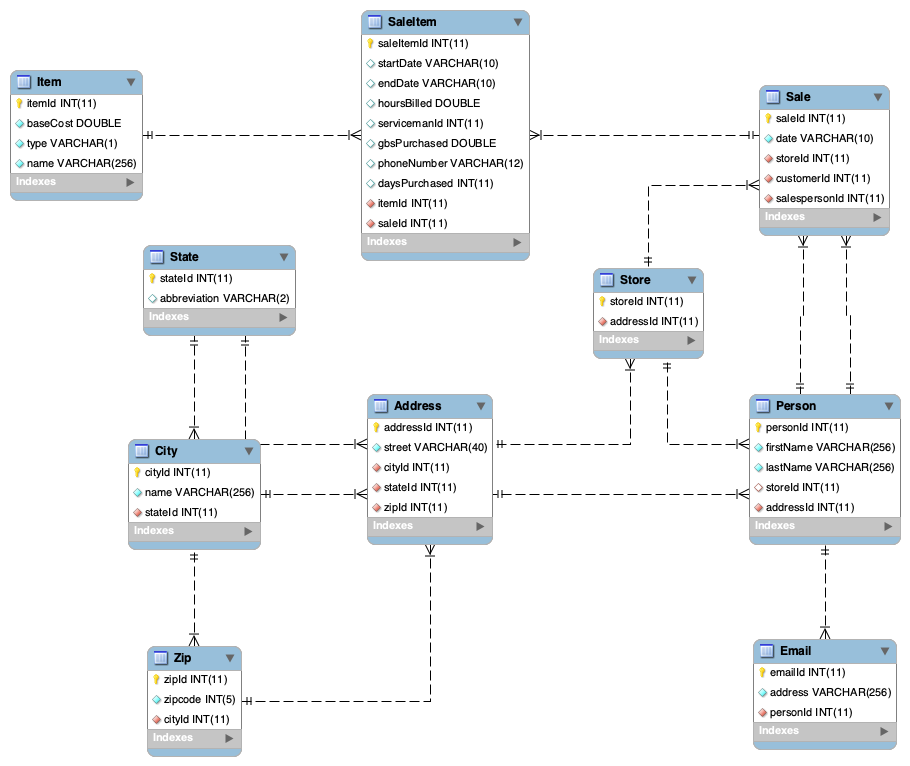
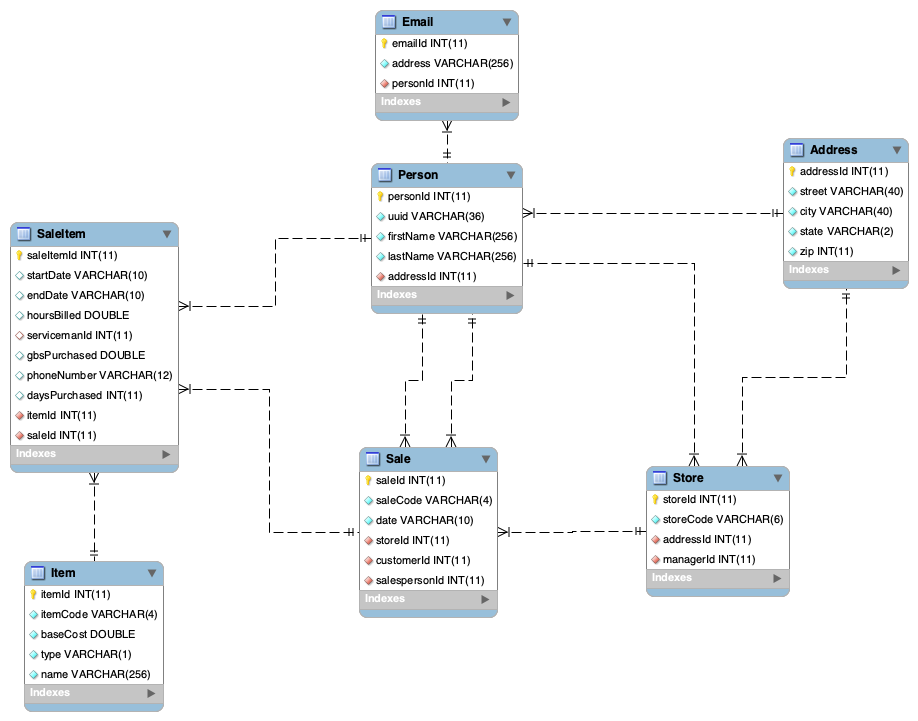
Edits

diff --git a/AssignmentTwo/src/com/yrl/SalesData.java b/AssignmentTwo/src/com/yrl/SalesData.java
@@ -5,8 +5,6 @@ import java.sql.PreparedStatement;
 import java.sql.ResultSet;
 import java.sql.SQLException;
 import java.sql.Statement;
-import java.util.Arrays;
-import java.util.List;
 
 /**
  * This is a collection of utility methods that define a general API for
@@ -19,7 +17,19 @@ public class SalesData {
 	 * Removes all records from all tables in the database.
 	 */
 	public static void clearDatabase() {
-		//TODO: implement
+		try {
+			Connection conn = ConnectionFactory.getConnection();
+
+			for (String tableName : DatabaseInfo.TABLELIST) {
+				String removeTableQuery = "delete from " + tableName;
+				PreparedStatement psRemoveTable = conn.prepareStatement(removeTableQuery);
+				psRemoveTable.executeUpdate();
+				psRemoveTable.close();
+			}
+			conn.close();
+		} catch (SQLException e) {
+			throw new RuntimeException(e);
+		}
 	}
 
 	/**
@@ -35,7 +45,24 @@ public class SalesData {
 	 */
 	public static void addPerson(String personUuid, String firstName, String lastName, String street, String city,
 			String state, String zip) {
-		//TODO: implement
+		try {
+			Connection conn = ConnectionFactory.getConnection();
+			int addressId = addAddress(street, city, state, zip);
+
+			String addPerson = "insert into Person (uuid,firstName,lastName,addressId) values (?, ?, ?, ?);";
+			PreparedStatement psAddPerson = conn.prepareStatement(addPerson);
+			psAddPerson.setString(1, personUuid);
+			psAddPerson.setString(2, firstName);
+			psAddPerson.setString(3, lastName);
+			psAddPerson.setInt(4, addressId);
+			
+
+			psAddPerson.close();
+
+			conn.close();
+		} catch (SQLException e) {
+			throw new RuntimeException(e);
+		}
 
 	}
 
@@ -47,8 +74,21 @@ public class SalesData {
 	 * @param email
 	 */
 	public static void addEmail(String personUuid, String email) {
-		//TODO: implement
+	    try {
+	        Connection conn = ConnectionFactory.getConnection();
 
+	        String addEmail = "insert into Email (address, personId) values (?, (SELECT personId from Person where uuid = ?))";
+	        PreparedStatement psAddEmail = conn.prepareStatement(addEmail);
+	        psAddEmail.setString(1, email);
+	        psAddEmail.setString(2, personUuid);
+	        psAddEmail.executeUpdate();
+
+	        psAddEmail.close();
+
+	        conn.close();
+	    } catch (SQLException e) {
+	        throw new RuntimeException(e);
+	    }
 	}
 
 	/**
@@ -64,8 +104,22 @@ public class SalesData {
 	 */
 	public static void addStore(String storeCode, String managerCode, String street, String city, String state,
 			String zip) {
-		//TODO: implement
+		try {
+			Connection conn = ConnectionFactory.getConnection();
+			int addressId = addAddress(street, city, state, zip);
+			String addStore = "insert into Store (storeCode,addressId, managerId) values (?, ?, (select personId from Person where uuid = ?)))";
+			PreparedStatement psAddStore = conn.prepareStatement(addStore);
+			psAddStore.setString(1, storeCode);
+			psAddStore.setInt(2, addressId);
+			psAddStore.setString(3, managerCode);
+			psAddStore.executeUpdate();
 
+			psAddStore.close();
+
+			conn.close();
+		} catch (SQLException e) {
+			throw new RuntimeException(e);
+		}
 	}
 
 	/**
@@ -81,7 +135,22 @@ public class SalesData {
 	 * @param basePrice
 	 */
 	public static void addItem(String code, String name, String type, double basePrice) {
-		//TODO: implement
+		try {
+			Connection conn = ConnectionFactory.getConnection();
+			String addItem = "insert into Item (itemCode,type,name,baseCost) values (?, ?, ?, ?)";
+			PreparedStatement psAddItem = conn.prepareStatement(addItem);
+			psAddItem.setString(1, code);
+			psAddItem.setString(2, String.valueOf(type.charAt(0)));
+			psAddItem.setString(3, name);
+			psAddItem.setDouble(4, basePrice);
+			psAddItem.executeUpdate();
+
+			psAddItem.close();
+
+			conn.close();
+		} catch (SQLException e) {
+			throw new RuntimeException(e);
+		}
 	}
 
 	/**
@@ -95,7 +164,26 @@ public class SalesData {
 	 */
 	public static void addSale(String saleCode, String storeCode, String customerPersonUuid, String salesPersonUuid,
 			String saleDate) {
-		//TODO: implement
+		try {
+			Connection conn = ConnectionFactory.getConnection();
+			String addSale = "insert into Sale (saleCode,date,storeId,customerId,salespersonId) values "
+					+ "(?, ?, (select storeId from Store where storeCode = ?),"
+					+ " (select personId from Person where uuid = ?), "
+					+ "(select personId from Person where uuid = ?)";
+			PreparedStatement psAddSale = conn.prepareStatement(addSale);
+			psAddSale.setString(1, saleCode);
+			psAddSale.setString(2, saleDate);
+			psAddSale.setString(3, storeCode);
+			psAddSale.setString(4, customerPersonUuid);
+			psAddSale.setString(5, salesPersonUuid);
+			psAddSale.executeUpdate();
+
+			psAddSale.close();
+
+			conn.close();
+		} catch (SQLException e) {
+			throw new RuntimeException(e);
+		}
 	}
 
 	/**
@@ -106,7 +194,21 @@ public class SalesData {
 	 * @param itemCode
 	 */
 	public static void addProductToSale(String saleCode, String itemCode) {
-		//TODO: implement
+		try {
+			Connection conn = ConnectionFactory.getConnection();
+			String addProductToSale = "insert into SaleItem (itemId,saleId) values ((select itemId from Item where itemCode = ?), (select saleId from Sale where saleCode = ?)) ";
+			PreparedStatement psAddProductToSale = conn.prepareStatement(addProductToSale);
+			psAddProductToSale.setString(1, itemCode);
+			psAddProductToSale.setString(2, saleCode);
+
+			psAddProductToSale.executeUpdate();
+
+			psAddProductToSale.close();
+
+			conn.close();
+		} catch (SQLException e) {
+			throw new RuntimeException(e);
+		}
 
 	}
 
@@ -120,7 +222,23 @@ public class SalesData {
 	 * @param endDate
 	 */
 	public static void addLeaseToSale(String saleCode, String itemCode, String startDate, String endDate) {
-		//TODO: implement
+		try {
+			Connection conn = ConnectionFactory.getConnection();
+			String addLeaseToSale = "insert into SaleItem (startDate,endDate,itemId,saleId) values (?, ?, (select itemId from Item where itemCode = ?), (select saleId from Sale where saleCode = ?)) ";
+			PreparedStatement psAddLeaseToSale = conn.prepareStatement(addLeaseToSale);
+			psAddLeaseToSale.setString(1, startDate);
+			psAddLeaseToSale.setString(2, endDate);
+			psAddLeaseToSale.setString(3, itemCode);
+			psAddLeaseToSale.setString(4, saleCode);
+
+			psAddLeaseToSale.executeUpdate();
+
+			psAddLeaseToSale.close();
+
+			conn.close();
+		} catch (SQLException e) {
+			throw new RuntimeException(e);
+		}
 	}
 
 	/**
@@ -136,7 +254,23 @@ public class SalesData {
 	 */
 	public static void addServiceToSale(String saleCode, String itemCode, double billedHours,
 			String servicePersonUuid) {
-		//TODO: implement
+		try {
+			Connection conn = ConnectionFactory.getConnection();
+			String addServiceToSale = "insert into SaleItem (hoursBilled,servicemanId,itemId,saleId) values (?, (select personId from Person where uuid = ?), (select itemId from Item where itemCode = ?), (select saleId from Sale where saleCode = ?)) ";
+			PreparedStatement psAddServiceToSale = conn.prepareStatement(addServiceToSale);
+			psAddServiceToSale.setDouble(1, billedHours);
+			psAddServiceToSale.setString(2, servicePersonUuid);
+			psAddServiceToSale.setString(3, itemCode);
+			psAddServiceToSale.setString(4, saleCode);
+
+			psAddServiceToSale.executeUpdate();
+
+			psAddServiceToSale.close();
+
+			conn.close();
+		} catch (SQLException e) {
+			throw new RuntimeException(e);
+		}
 	}
 
 	/**
@@ -149,7 +283,22 @@ public class SalesData {
 	 * @param gbs
 	 */
 	public static void addDataPlanToSale(String saleCode, String itemCode, double gbs) {
-		//TODO: implement
+		try {
+			Connection conn = ConnectionFactory.getConnection();
+			String addDataPlanToSale = "insert into SaleItem (gbsPurchased,itemId,saleId) values (?, (select itemId from Item where itemCode = ?), (select saleId from Sale where saleCode = ?)) ";
+			PreparedStatement psAddDataPlanToSale = conn.prepareStatement(addDataPlanToSale);
+			psAddDataPlanToSale.setDouble(1, gbs);
+			psAddDataPlanToSale.setString(2, itemCode);
+			psAddDataPlanToSale.setString(3, saleCode);
+
+			psAddDataPlanToSale.executeUpdate();
+
+			psAddDataPlanToSale.close();
+
+			conn.close();
+		} catch (SQLException e) {
+			throw new RuntimeException(e);
+		}
 
 	}
 
@@ -164,9 +313,57 @@ public class SalesData {
 	 * @param days
 	 */
 	public static void addVoicePlanToSale(String saleCode, String itemCode, String phoneNumber, int days) {
-		//TODO: implement
+		try {
+			Connection conn = ConnectionFactory.getConnection();
+			String addVoicePlanToSale = "insert into SaleItem (phoneNumber,daysPurchased,itemId,saleId) values (?, ?, (select itemId from Item where itemCode = ?), (select saleId from Sale where saleCode = ?)) ";
+			PreparedStatement psAddVoicePlanToSale = conn.prepareStatement(addVoicePlanToSale);
+			psAddVoicePlanToSale.setString(1, phoneNumber);
+			psAddVoicePlanToSale.setInt(1, days);
+			psAddVoicePlanToSale.setString(3, itemCode);
+			psAddVoicePlanToSale.setString(4, saleCode);
+
+			psAddVoicePlanToSale.executeUpdate();
+
+			psAddVoicePlanToSale.close();
+
+			conn.close();
+		} catch (SQLException e) {
+			throw new RuntimeException(e);
+		}
 
 	}
 
+	/**
+	 * Method to add an address record to the database with the provided data.
+	 * 
+	 * @param street
+	 * @param city
+	 * @param state
+	 * @param zip
+	 * @return
+	 */
+	public static int addAddress(String street, String city, String state, String zip) {
+		try {
+			Connection conn = ConnectionFactory.getConnection();
+			String insertAddress = "insert into Address (street,city,state,zip) values (?, ?, ?, ?);";
+			PreparedStatement psInsertAddress = conn.prepareStatement(insertAddress, Statement.RETURN_GENERATED_KEYS);
+			psInsertAddress.setString(1, street);
+			psInsertAddress.setString(2, city);
+			psInsertAddress.setString(3, state);
+			psInsertAddress.setInt(4, Integer.parseInt(zip));
+			psInsertAddress.executeUpdate();
+
+			ResultSet keys = psInsertAddress.getGeneratedKeys();
+			keys.next();
+			int addressId = keys.getInt(1);
+
+			psInsertAddress.close();
+
+			conn.close();
+			return addressId;
+		} catch (SQLException e) {
+			throw new RuntimeException(e);
+		}
+	}
 
 }

diff --git a/AssignmentTwo/src/com/yrl/DatabaseInfo.java b/AssignmentTwo/src/com/yrl/DatabaseInfo.java
@@ -1,5 +1,8 @@
 package com.yrl;
 
+import java.util.ArrayList;
+import java.util.Arrays;
+
 /**
  * Database connection configuration 
  */
@@ -30,5 +33,9 @@ public class DatabaseInfo {
 	 * Fully formatted URL for a JDBC connection
 	 */
 	public static final String URL = String.format("jdbc:mysql://%s/%s?%s", SERVER, USERNAME, PARAMETERS);
+	
+	public static final ArrayList<String> TABLELIST = new ArrayList<>(Arrays.asList("Email", "SaleItem", "Item", 
+			"Sale", "Store", "Person", "Address"));
+
 
 }

diff --git a/AssignmentTwo/src/com/yrl/ConnectionFactory.java b/AssignmentTwo/src/com/yrl/ConnectionFactory.java
@@ -1,0 +1,18 @@
+package com.yrl;
+
+import java.sql.Connection;
+import java.sql.DriverManager;
+import java.sql.SQLException;
+
+public class ConnectionFactory {
+
+	public static Connection getConnection() {
+		Connection conn;
+		try {
+			conn = DriverManager.getConnection(DatabaseInfo.URL,DatabaseInfo.USERNAME, DatabaseInfo.PASSWORD);
+		} catch (SQLException e) {
+			throw new RuntimeException(e);
+		} 
+		return conn;
+	}
+}
